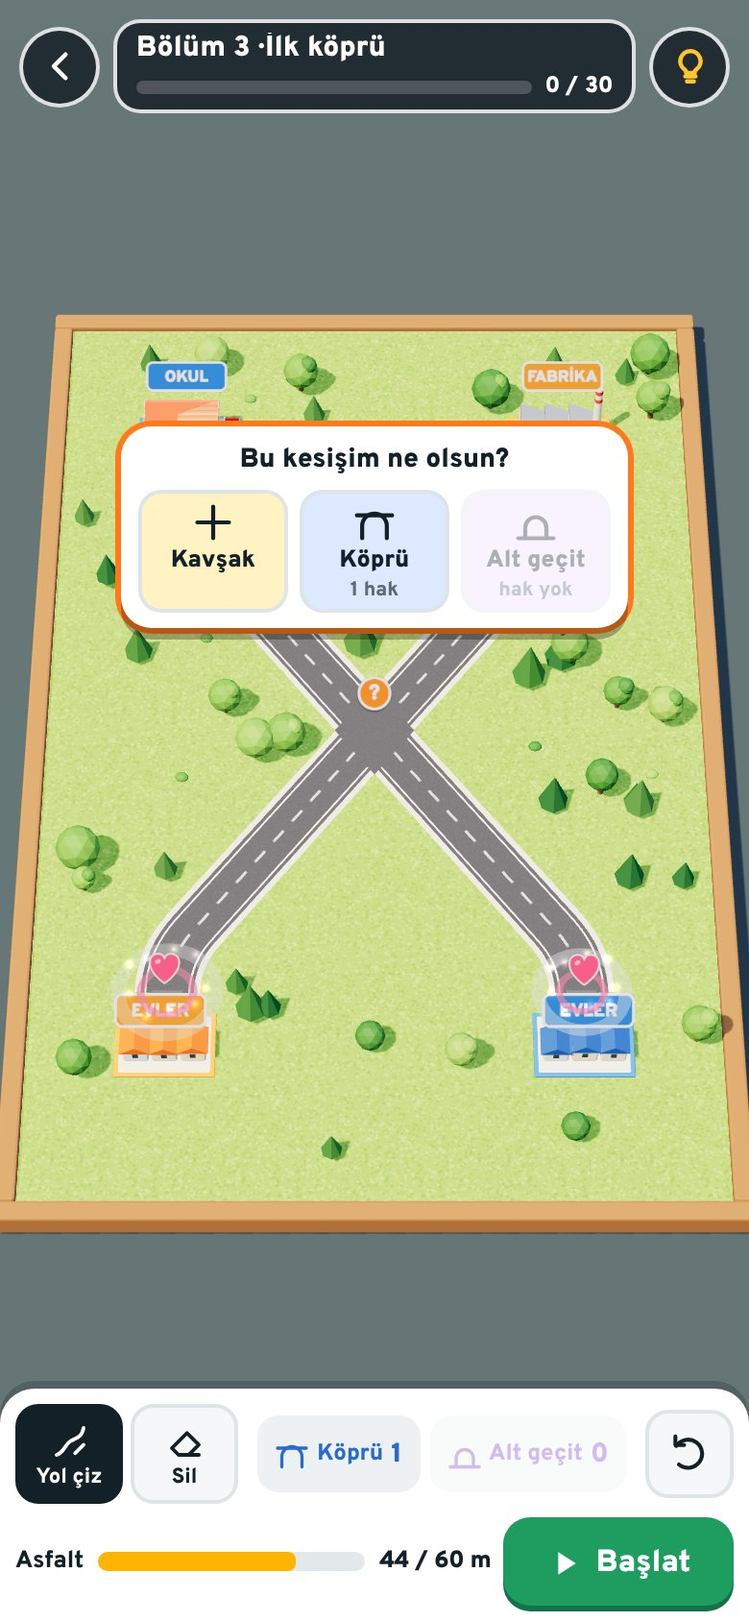
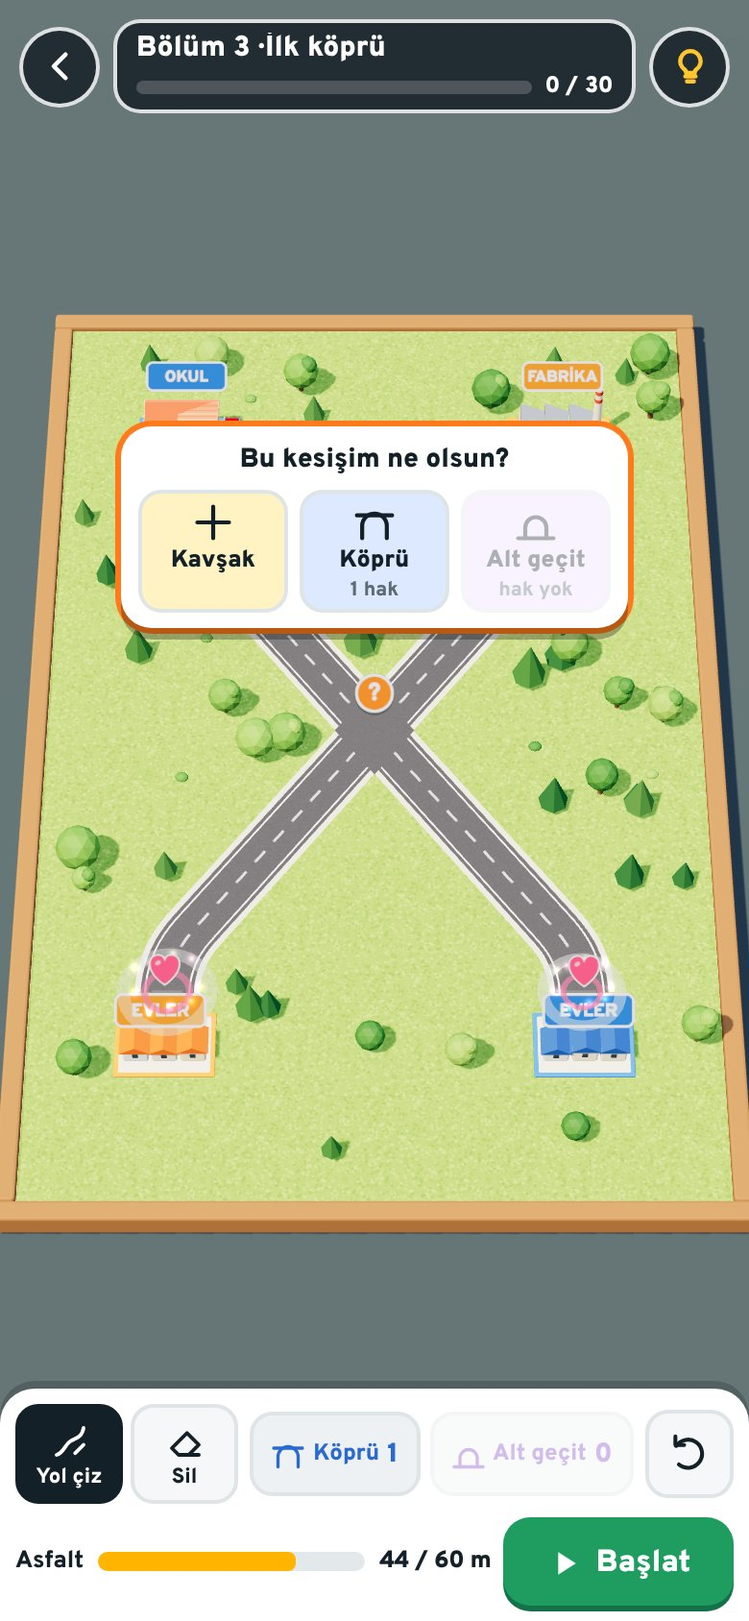
Bölümler: Köprü / Alt geçit düğmesi yapılabilecek yerleri gösterir, oyuncu elle koyar
- Alttaki Köprü ve Alt geçit artık düğme: basınca köprü (alt geçit) yapılabilecek
  bütün yerler ışıkla parlar; oyuncu istediğine dokunur. Kavşak yapılmış
  kesişimler, belirsiz (?) kesişimler ve rayla kesişimler de aday olur.
- İki yolun ana yola karşılıklı bağlandığı dört kollu kavşak da köprü yeri olur:
  o iki yol tek yol olup ana yolun üstünden (alt geçitte altından) geçer.
- Hangi yolun üstten geçeceği sığana göre seçilir (yeni yolun rampasına yer
  yoksa öbür yol üstten geçer); ? kutusundaki Köprü seçeneği de bundan yararlanır.
- Modda var olan köprünün işaretinde × rozeti: dokununca köprü kaldırılır.
  Hak bitince ya da düğmeye yeniden basınca Yol çiz'e dönülür; uzun sürükleme
  yol çizmeye geçer. Yer yoksa nedeni yazar.
- Eski akışı anlatan ipuçları ve bölüm 2 tanıtımı yeni akışa göre yazıldı.
- Testler: köprü yerlerinin parlaması, dokununca köprü, hak bitince uyarı,
  karşılıklı yolların birleşip köprü olması; kaybetme kartı kontrolü kartın
  açılmasını bekliyor. 111 kontrolün hepsi geçti.

Claude-Session: https://claude.ai/code/session_0156CvAogtVYziKRmLM3uGcM

diff --git a/ray-arasi/js/lv-game.js b/ray-arasi/js/lv-game.js
@@ -81,6 +81,7 @@
       this.sim.setNet(res);
       this.hud(true);
       if (okMsg) this.toast(okMsg);
+      if (this.spotKind) this.refreshSpots();
       RA.audio.play('switch');
       return true;
     }
@@ -91,6 +92,7 @@
       this.strokes = s.strokes; this.choices = s.choices; this.nextId = Math.max(this.nextId, s.nextId); this.net = res;
       this.view.buildRoads(this.level, res); this.sim.setNet(res); this.hud(true);
       this.toast('Geri alındı.');
+      if (this.spotKind) this.refreshSpots(true);
     }
 
     /* ---------- çizim ---------- */
@@ -482,6 +484,14 @@
       return true;
     }
     // kesişim seçim kutusu
+    // kesişime tür ver: köprü / alt geçitte önce olağan yön denenir, sığmazsa öbür yol üstten geçer
+    fitChoice(c, t, strokes) {
+      strokes = strokes || this.strokes;
+      const base = Object.assign({}, this.choices, { [c.key]: t }); delete base[c.key + '^'];
+      if (LV.buildNet(this.level, strokes, base, {}).ok) return base;
+      if (c.kind === 'road' && (t === 'bridge' || t === 'tunnel')) { const f = Object.assign({}, base, { [c.key + '^']: true }); if (LV.buildNet(this.level, strokes, f, {}).ok) return f; }
+      return null;
+    }
     openPick(c) {
       if (!c) return;
       this.pickC = c;
@@ -493,7 +503,7 @@
         b.querySelector('span').textContent = t === 'level' ? 'Hemzemin' : t === 'junction' ? 'Kavşak' : t === 'bridge' ? 'Köprü' : 'Alt geçit';
         const n = t === 'bridge' || t === 'tunnel' ? left[t] : null;
         // bu seçenek burada olur mu? (rampa yeri, yakın kavşak…) olmayan seçenek baştan kapalı
-        const fits = t === c.type || LV.buildNet(this.level, this.strokes, Object.assign({}, this.choices, { [c.key]: t }), {}).ok;
+        const fits = t === c.type || !!this.fitChoice(c, t);
         b.querySelector('b').textContent = n != null && n <= 0 ? 'hak yok' : !fits ? 'yer yok' : n == null ? '' : n + ' hak';
         b.disabled = (n != null && n <= 0) || !fits;
         b.classList.toggle('on', c.type === t);
@@ -511,7 +521,7 @@
     closePick() { const el = $('lv-pick'); if (el) el.hidden = true; this.pickC = null; }
     choose(t) {
       const c = this.pickC; if (!c) return;
-      const choices = Object.assign({}, this.choices, { [c.key]: t });
+      const choices = this.fitChoice(c, t) || Object.assign({}, this.choices, { [c.key]: t });
       if (this.tryCommit(this.strokes, choices, 'Kesişim: ' + TNAME[t] + '.')) { this.closePick(); if (t !== 'junction' && t !== 'level') this.view.kiss(c.x, c.z, 1.4); }
     }
     eraseAt(p) {
@@ -557,9 +567,113 @@
       const b = $('lv-speed'); b.textContent = v + '×'; b.dataset.v = v; b.setAttribute('aria-label', 'Hız: ' + v + ' kat (değiştirmek için dokun)');
     }
     setTool(t) {
+      if (t === 'bridge' || t === 'tunnel') { if (this.tool === t || !this.enterSpots(t)) t = 'road'; else this.closePick(); }
+      if (t !== 'bridge' && t !== 'tunnel' && this.spotKind) { this.spotKind = null; this.spotList = null; this.view.spots(null); }
       this.tool = t;
       document.querySelectorAll('#lv [data-lvtool]').forEach((b) => { const on = b.dataset.lvtool === t; b.classList.toggle('on', on); b.setAttribute('aria-pressed', on); });
+    }
 
+    /* ---------- köprü / alt geçit modu: yapılabilecek yerler parlar, oyuncu istediğine dokunur ---------- */
+    // Aday yerler: var olan kesişimler (?, kavşak, hemzemin geçit) ve iki yolun karşılıklı bağlandığı
+    // dört kollu kavşaklar (o iki yol tek yol olur, öbürünün üstünden / altından geçer).
+    spotsFor(kind) {
+      const L = this.level, u = this.net.usage;
+      const left = ((kind === 'bridge' ? L.bridges : L.tunnels) || 0) - (kind === 'bridge' ? u.bridges : u.tunnels);
+      const out = [];
+      for (const c of this.net.crossings) if (c.type === kind) out.push({ x: c.x, z: c.z, c, act: 'unset' });
+      if (left > 0) {
+        for (const c of this.net.crossings) {
+          if (c.type === kind) continue;
+          const ch = this.fitChoice(c, kind);
+          if (ch) out.push({ x: c.x, z: c.z, c, act: 'set', choices: ch });
+        }
+        for (const m of this.mergeSpots(kind)) out.push(m);
+      }
+      return { out, left };
+    }
+    mergeSpots(kind) {
+      const out = [], net = this.net;
+      for (const n of net.nodes) {
+        if (n.kind !== 'j' || n.deg !== 4) continue;
+        if (net.crossings.some((c) => Math.hypot(c.x - n.x, c.z - n.z) < 0.6)) continue;
+        const arms = n.arms.map((r) => { const st = r.e.st, s = r.end === 'a' ? r.e.s0 : r.e.s1; return { ang: r.ang, id: st.id, endHere: s < 0.05 || s > st.len - 0.05, atStart: s < 0.05 }; });
+        // karşılıklı iki çift kol
+        const pairs = [], used = new Set();
+        for (let i = 0; i < 4; i++) {
+          if (used.has(i)) continue;
+          let bj = -1, bd = 1e9;
+          for (let j = 0; j < 4; j++) { if (j === i || used.has(j)) continue; const d = Math.abs(RA.wrapAngle(arms[i].ang - arms[j].ang - Math.PI)); if (d < bd) { bd = d; bj = j; } }
+          if (bj < 0 || bd > 0.7) break;
+          used.add(i); used.add(bj); pairs.push([arms[i], arms[bj]]);
+        }
+        if (pairs.length !== 2) continue;
+        let strokes = this.strokes.slice(), nid = this.nextId, ok = true, merged = 0;
+        const N = { x: n.x, z: n.z }, far = (v) => Math.hypot(v.x - N.x, v.z - N.z) > 0.9;
+        for (const [p, q] of pairs) {
+          if (p.id === q.id && !p.endHere && !q.endHere) continue; // yol kavşağın içinden geçiyor
+          if (!p.endHere || !q.endHere || p.id === q.id) { ok = false; break; }
+          const A = strokes.find((s) => s.id === p.id), B = strokes.find((s) => s.id === q.id);
+          if (!A || !B) { ok = false; break; }
+          const pa = (p.atStart ? A.pts.slice().reverse() : A.pts.slice()).filter(far), pb = (q.atStart ? B.pts.slice() : B.pts.slice().reverse()).filter(far);
+          strokes = strokes.filter((s) => s !== A && s !== B).concat([{ id: nid++, pts: pa.concat([N], pb) }]);
+          merged++;
+        }
+        if (!ok || !merged) continue;
+        const probe = LV.buildNet(this.level, strokes, this.choices, {});
+        if (!probe.ok) continue;
+        const c = probe.crossings.find((q) => Math.hypot(q.x - n.x, q.z - n.z) < 0.6);
+        if (!c) continue;
+        const ch = this.fitChoice(c, kind, strokes);
+        if (!ch) continue;
+        out.push({ x: n.x, z: n.z, act: 'merge', strokes, choices: ch, nextId: nid });
+      }
+      return out;
+    }
+    enterSpots(kind) {
+      const L = this.level, name = kind === 'bridge' ? 'köprü' : 'alt geçit', Name = kind === 'bridge' ? 'Köprü' : 'Alt geçit';
+      if (!((kind === 'bridge' ? L.bridges : L.tunnels) || 0)) { this.toast('Bu bölümde ' + name + ' hakkın yok.'); return false; }
+      const { out, left } = this.spotsFor(kind);
+      const add = out.filter((s) => s.act !== 'unset');
+      if (left <= 0) { this.toast(Name + ' hakkın bitti. Birini kaldırmak için ' + name + ' işaretine dokunup Kavşak seç.'); return false; }
+      if (!add.length) {
+        const others = this.net.crossings.filter((c) => c.type !== kind).length;
+        this.toast(others || this.net.nodes.some((n) => n.kind === 'j' && n.deg === 4) ? 'Şu an hiçbir kesişimde ' + name + ' için yer yok: rampalar için kesişimin iki yanında biraz düz yol gerekir.' : this.net.crossings.length ? 'Bütün kesişimler zaten ' + name + '. Yeni bir yer için başka bir yolu kesen bir yol çiz.' : Name + ' yapılabilecek yer yok: önce bir yolu kesen başka bir yol çiz.');
+        return false;
+      }
+      this.spotKind = kind; this.spotList = out; this.view.spots(out, kind);
+      this.toast(Name + ' yapabileceğin ' + add.length + ' yer parlıyor: istediğine dokun. (' + left + ' hakkın var)');
+      RA.audio.play('tap');
+      return true;
+    }
+    // işlemden sonra yerleri yenile; eklenecek yer ya da hak kalmadıysa moddan çık
+    refreshSpots(quiet) {
+      const kind = this.spotKind; if (!kind) return;
+      const { out, left } = this.spotsFor(kind);
+      if (left <= 0 || !out.some((s) => s.act !== 'unset')) { this.spotKind = null; this.spotList = null; this.setTool('road'); return; }
+      this.spotList = out; this.view.spots(out, kind);
+    }
+    spotAt(x, y) {
+      let best = null, bd = 34;
+      for (const s of this.spotList || []) {
+        const q = RA.project(new T.Vector3(s.x, 2.0, s.z), this.camera, this.app.w, this.app.h);
+        const d = Math.hypot(q.x - x, q.y - y); if (d < bd) { bd = d; best = s; }
+      }
+      return best;
+    }
+    useSpot(sp) {
+      const kind = this.spotKind, Name = kind === 'bridge' ? 'Köprü' : 'Alt geçit';
+      if (sp.act === 'set' || sp.act === 'merge') {
+        const strokes = sp.act === 'merge' ? sp.strokes : this.strokes;
+        if (sp.act === 'merge') this.nextId = Math.max(this.nextId, sp.nextId);
+        const left = ((kind === 'bridge' ? this.level.bridges : this.level.tunnels) || 0) - (kind === 'bridge' ? this.net.usage.bridges : this.net.usage.tunnels) - 1;
+        if (this.tryCommit(strokes, sp.choices, Name + ' yapıldı' + (sp.act === 'merge' ? ': iki yol birleşip ' + (kind === 'bridge' ? 'üstten' : 'alttan') + ' geçiyor' : '') + '. ' + (left > 0 ? 'Kalan hak: ' + left + '.' : 'Hakkın bitti.'))) {
+          this.view.kiss(sp.x, sp.z, 1.4); RA.vibrate(15);
+        }
+        return;
+      }
+      // var olanı kaldır: kavşak (rayda hemzemin) olur; sığmazsa türü sorulur (?)
+      const back = sp.c.kind === 'rail' ? 'level' : 'junction';
+      for (const t of [back, 'pending']) if (this.tryCommit(this.strokes, ((ch) => { delete ch[sp.c.key + '^']; return ch; })(Object.assign({}, this.choices, { [sp.c.key]: t })), Name + ' kaldırıldı: ' + (t === 'pending' ? 'kesişimin türünü seç (?).' : TNAME[t] + ' oldu.'), null, true)) return;
     }
     togglePlay() {
       if (this.ended) return;
@@ -686,6 +800,8 @@
         const d = this.drag; if (!d || e.pointerId !== d.id) return;
         const p = local(e);
         if (Math.hypot(p.x - d.x0, p.y - d.y0) > 9) d.moved = true;
+        // köprü / alt geçit modunda uzun sürükleme: yol çizmeye geç
+        if (this.spotKind && Math.hypot(p.x - d.x0, p.y - d.y0) > 40) { this.setTool('road'); this.toast('Yol çizmeye geçildi.'); }
         if (!d.moved || this.tool !== 'road') return;
         const g = this.ground(p.x, p.y); if (!g) return;
         const last = d.raw[d.raw.length - 1];
@@ -698,6 +814,12 @@
         this.drag = null; this.view.preview(null);
         if (e.type === 'pointercancel') return;
         const p = local(e);
+        if (this.spotKind) {
+          const sp = this.spotAt(p.x, p.y) || this.spotAt(d.x0, d.y0);
+          if (sp) this.useSpot(sp);
+          else this.toast('Parlayan yerlerden birine dokun. Çıkmak için "' + (this.spotKind === 'bridge' ? 'Köprü' : 'Alt geçit') + '" düğmesine yeniden bas.');
+          return;
+        }
         if (!d.moved) {
           const mk = this.markAt(p.x, p.y);
           if (mk) { this.openPick(mk); return; }

diff --git a/ray-arasi/js/lv-view.js b/ray-arasi/js/lv-view.js
@@ -82,6 +82,15 @@
   }
   function rr(g, x, y, w, h, r) { g.beginPath(); g.moveTo(x + r, y); g.arcTo(x + w, y, x + w, y + h, r); g.arcTo(x + w, y + h, x, y + h, r); g.arcTo(x, y + h, x, y, r); g.arcTo(x, y, x + w, y, r); g.closePath(); }
   // kesişim işareti: kavşak (artı), köprü (kemer), alt geçit (tünel), hemzemin (bariyer)
+  // köprü / alt geçit modunda var olanın işaretinde kaldırma rozeti (×) olur
+  function removeTex(type) {
+    return canvasTex('mkx' + type, 128, 128, (g) => {
+      g.drawImage(markTex(type).image, 0, 0);
+      g.fillStyle = '#ffffff'; g.beginPath(); g.arc(100, 26, 22, 0, Math.PI * 2); g.fill();
+      g.fillStyle = '#e8453c'; g.beginPath(); g.arc(100, 26, 17, 0, Math.PI * 2); g.fill();
+      g.strokeStyle = '#ffffff'; g.lineWidth = 6; g.lineCap = 'round'; g.beginPath(); g.moveTo(92, 18); g.lineTo(108, 34); g.moveTo(108, 18); g.lineTo(92, 34); g.stroke();
+    });
+  }
   function markTex(type) {
     return canvasTex('mk' + type, 128, 128, (g) => {
       const col = { junction: '#ffc531', level: '#ffc531', bridge: '#3d8bff', tunnel: '#a061f0', pending: '#ff7a1a' }[type];
@@ -285,6 +294,7 @@
 
     /* ---------- yollar (her çizimde yeniden kurulur) ---------- */
     buildRoads(level, net) {
+      this.spots(null);
       this.dispose(this.roads);
       const m = mats();
       const root = new T.Group(), stat = new T.Group();
@@ -399,6 +409,27 @@
       this.roads = root;
     }
 
+    /* ---------- köprü / alt geçit yapılabilecek yerler (parlayan işaretler) ---------- */
+    spots(list, kind) {
+      if (this.spotG) { this.scene.remove(this.spotG); this.spotG.traverse((o) => { if (o.isMesh) { o.geometry.dispose(); o.material.dispose(); } else if (o.isSprite) o.material.dispose(); }); this.spotG = null; }
+      this.spotL = list || null;
+      if (this.marks) for (const mk of this.marks) mk.sp.visible = !list;
+      if (!list) return;
+      const g = new T.Group(), col = kind === 'bridge' ? 0x3d8bff : 0xa061f0;
+      for (const s of list) {
+        const add = s.act !== 'unset';
+        const sp = new T.Sprite(new T.SpriteMaterial({ map: add ? markTex(kind) : removeTex(kind), depthTest: false, transparent: true }));
+        sp.position.set(s.x, 2.0, s.z); sp.renderOrder = 19; sp.scale.set(1.25, 1.25, 1); g.add(sp); s.sp = sp;
+        if (add) {
+          const ring = new T.Mesh(new T.RingGeometry(0.95, 1.35, 40), new T.MeshBasicMaterial({ color: col, transparent: true, opacity: 0.6, depthWrite: false, blending: T.AdditiveBlending }));
+          ring.rotation.x = -Math.PI / 2; ring.position.set(s.x, 0.14, s.z); ring.renderOrder = 6; g.add(ring); s.ring = ring;
+          const beam = new T.Mesh(new T.CylinderGeometry(0.08, 0.3, 1.7, 12, 1, true), new T.MeshBasicMaterial({ color: col, transparent: true, opacity: 0.35, depthWrite: false, blending: T.AdditiveBlending }));
+          beam.position.set(s.x, 1.0, s.z); g.add(beam);
+        }
+      }
+      this.scene.add(g); this.spotG = g;
+    }
+
     /* ---------- çizim önizlemesi ---------- */
     preview(pts, ok) {
       if (this.prev) { this.scene.remove(this.prev); this.prev.geometry.dispose(); this.prev = null; }
@@ -441,7 +472,12 @@
         if (n !== b.pendN) { b.pendN = n; b.pend.material.map = pendTex(n, LV.Sim.PENDING_CAP); b.pend.material.needsUpdate = true; }
         b.pend.visible = running || n > 0;
       }
-      if (this.marks) for (const mk of this.marks) {
+      if (this.spotL) for (const s of this.spotL) {
+        if (s.act === 'unset') continue;
+        const k = 0.5 + 0.5 * Math.sin(now * 6), sc = 1.3 + k * 0.3;
+        s.sp.scale.set(sc, sc, 1); s.ring.scale.setScalar(1 + k * 0.35); s.ring.material.opacity = 0.35 + 0.4 * k;
+      }
+      if (this.marks && !this.spotL) for (const mk of this.marks) {
         if (mk.c.type === 'pending') { const sc = 1.35 + Math.sin(now * 5) * 0.15; mk.sp.scale.set(sc, sc, 1); mk.sp.material.opacity = 1; continue; } // seçilmeyi bekliyor
         mk.sp.material.opacity = running ? 0.6 : 1; const sc = running ? 0.9 : 1.25; mk.sp.scale.set(sc, sc, 1);
       }

diff --git a/ray-arasi/js/lv-data.js b/ray-arasi/js/lv-data.js
@@ -27,7 +27,7 @@
     },
     {
       id: 2, name: 'Kavşak', goal: 16, spawn: 2.8, budget: 60, star2: 48, bridges: 0, tunnels: 0,
-      intro: 'İki renk, iki yol. Yollar kesişince ışıklı kavşak olur; ışıkları yapay zekâ yönetir.',
+      intro: 'İki renk, iki yol. Yollar kesişince turuncu ? çıkar: dokunup Kavşak seç. Işıklı kavşağı yapay zekâ yönetir.',
       tip: 'Her evi kendi rengindeki binaya bağla. Yollar ortada kesişebilir.',
       houses: [{ x: -6, z: 11, dir: 'N', color: 'or' }, { x: 6, z: 11, dir: 'N', color: 'bl' }],
       dests: [{ x: 6, z: -11, dir: 'S', color: 'or', type: 'fabrika' }, { x: -6, z: -11, dir: 'S', color: 'bl', type: 'okul' }],
@@ -36,7 +36,7 @@
     {
       id: 3, name: 'İlk köprü', goal: 30, spawn: 1.6, budget: 60, star2: 48, bridges: 1, tunnels: 0,
       intro: 'Trafik arttı. Kavşakta ışık beklemek yerine yollardan birini köprüyle öbürünün üstünden geçir.',
-      tip: 'Alttan "Köprü"yü seçip ikinci yolu çiz ya da çizdikten sonra kesişme işaretine dokun: kavşak → köprü → alt geçit.',
+      tip: 'İki yolu çiz. Sonra alttaki "Köprü" düğmesine bas: köprü yapabileceğin yerler parlar, kesişime dokun. (Turuncu ? işaretine dokunup Köprü de seçebilirsin.)',
       houses: [{ x: -6, z: 11, dir: 'N', color: 'or' }, { x: 6, z: 11, dir: 'N', color: 'bl' }],
       dests: [{ x: 6, z: -11, dir: 'S', color: 'or', type: 'fabrika' }, { x: -6, z: -11, dir: 'S', color: 'bl', type: 'okul' }],
       solution: [['road', [[-6, 9.3], [6, -9.1]]], ['bridge', [[6, 9.3], [-6, -9.1]]]],
@@ -61,7 +61,7 @@
     {
       id: 6, name: 'Hemzemin geçit', goal: 30, spawn: 2.0, budget: 52, star2: 44, bridges: 0, tunnels: 1,
       intro: 'Demiryolundan sık sık tren geçiyor. Hemzemin geçitte bariyer inince araçlar bekler.',
-      tip: 'Bir yolu "Alt geçit"le çiz: tren rayı yükselir, araçlar altından durmadan geçer.',
+      tip: 'Rayı kesen yolu çiz, sonra alttaki "Alt geçit"e basıp parlayan yere dokun: tren rayı yükselir, araçlar altından durmadan geçer.',
       rails: [{ pts: [[-10.8, -1], [10.8, -1]], every: 11, cars: 3, first: 2 }],
       houses: [{ x: -5, z: 12, dir: 'N', color: 'or' }, { x: 5, z: 12, dir: 'N', color: 'gr' }],
       dests: [{ x: -5, z: -11, dir: 'S', color: 'or', type: 'fabrika' }, { x: 5, z: -11, dir: 'S', color: 'gr', type: 'avm' }],
@@ -97,7 +97,7 @@
     {
       id: 10, name: 'Büyük kavşak', goal: 48, spawn: 2.3, budget: 84, star2: 76, bridges: 2, tunnels: 2,
       intro: 'Dört renk, dört kesişim ve yoğun trafik. Şimdiye kadar öğrendiğin her şeyi kullan.',
-      tip: 'Yatay yollardan birini köprüyle, öbürünü alt geçitle çiz: dikey yolların üstünden ve altından geçsinler.',
+      tip: 'Bütün yolları çiz. Sonra "Köprü"ye basıp bir yatay yolun kesişimlerine, "Alt geçit"e basıp öbürününkilere dokun: dikey yolların üstünden ve altından geçsinler.',
       houses: [{ x: -2.6, z: 13, dir: 'N', color: 'or' }, { x: 2.6, z: 13, dir: 'N', color: 'bl' }, { x: -8.6, z: -5, dir: 'E', color: 'gr' }, { x: 8.6, z: 5, dir: 'W', color: 'pu' }],
       dests: [{ x: -2.6, z: -12.5, dir: 'S', color: 'or', type: 'fabrika' }, { x: 2.6, z: -12.5, dir: 'S', color: 'bl', type: 'ofis' }, { x: 8.6, z: -5, dir: 'W', color: 'gr', type: 'okul' }, { x: -8.6, z: 5, dir: 'E', color: 'pu', type: 'avm' }],
       solution: [['road', [[-2.6, 11.3], [-2.6, -10.6]]], ['road', [[2.6, 11.3], [2.6, -10.6]]], ['bridge', [[-6.9, -5], [6.7, -5]]], ['tunnel', [[6.9, 5], [-6.7, 5]]]],

diff --git a/ray-arasi/index.html b/ray-arasi/index.html
@@ -112,9 +112,9 @@
             <button type="button" data-lvtool="road" aria-pressed="true"><svg viewBox="0 0 24 24"><path d="M4 20c4-1 5-6 8-8s7-2 8-8"/><path d="M15 19l5-5" /></svg>Yol çiz</button>
             <button type="button" data-lvtool="erase" aria-pressed="false"><svg viewBox="0 0 24 24"><path d="M4 16l9-9 7 7-6 6H8z"/><path d="M9 20h11"/></svg>Sil</button>
           </div>
-          <div class="lv-toks" aria-label="Kalan haklar">
-            <span id="lv-tok-b" class="lv-tok"><svg viewBox="0 0 24 24" aria-hidden="true"><path d="M2 8h20"/><path d="M5 21v-7a7 7 0 0 1 14 0v7"/></svg>Köprü <b id="lv-nb">0</b></span>
-            <span id="lv-tok-t" class="lv-tok"><svg viewBox="0 0 24 24" aria-hidden="true"><path d="M2 21h20"/><path d="M6 21v-6a6 6 0 0 1 12 0v6"/></svg>Alt geçit <b id="lv-nt">0</b></span>
+          <div class="lv-toks" role="toolbar" aria-label="Köprü ve alt geçit">
+            <button type="button" id="lv-tok-b" class="lv-tok" data-lvtool="bridge" aria-pressed="false" aria-label="Köprü: yapılabilecek yerleri göster"><svg viewBox="0 0 24 24" aria-hidden="true"><path d="M2 8h20"/><path d="M5 21v-7a7 7 0 0 1 14 0v7"/></svg>Köprü <b id="lv-nb">0</b></button>
+            <button type="button" id="lv-tok-t" class="lv-tok" data-lvtool="tunnel" aria-pressed="false" aria-label="Alt geçit: yapılabilecek yerleri göster"><svg viewBox="0 0 24 24" aria-hidden="true"><path d="M2 21h20"/><path d="M6 21v-6a6 6 0 0 1 12 0v6"/></svg>Alt geçit <b id="lv-nt">0</b></button>
           </div>
           <button id="lv-undo" class="ws-icon" type="button" aria-label="Geri al" disabled><svg viewBox="0 0 24 24"><path d="M9 7H4V2"/><path d="M4.5 7.5A8 8 0 1 1 6 18"/></svg></button>
         </div>

diff --git a/ray-arasi/css/style.css b/ray-arasi/css/style.css
@@ -271,10 +271,12 @@ button:focus-visible { outline: 3px solid var(--sign-yellow); outline-offset: 3p
 
 /* kalan köprü / alt geçit hakları */
 .lv-toks { flex: 1; min-width: 0; display: flex; gap: 5px; justify-content: center; }
-.lv-tok { display: flex; align-items: center; gap: 4px; height: 40px; padding: 0 9px; border-radius: 11px; background: #eef1f3; font-weight: 800; font-size: 12px; white-space: nowrap; }
+.lv-tok { display: flex; align-items: center; gap: 4px; height: 44px; padding: 0 9px; border-radius: 12px; background: #eef1f3; border: 2px solid #dfe4e7; font-weight: 800; font-size: 12px; white-space: nowrap; font-family: inherit; cursor: pointer; }
 .lv-tok svg { width: 18px; height: 18px; fill: none; stroke: currentColor; stroke-width: 2.2; stroke-linecap: round; stroke-linejoin: round; }
 .lv-tok b { font-size: 14px; }
 #lv-tok-b { color: #2a6ad0; } #lv-tok-t { color: #7d43c9; }
+#lv-tok-b.on { background: #2a6ad0; border-color: #2a6ad0; color: #fff; box-shadow: 0 0 0 3px rgba(42,106,208,0.25); }
+#lv-tok-t.on { background: #7d43c9; border-color: #7d43c9; color: #fff; box-shadow: 0 0 0 3px rgba(125,67,201,0.25); }
 .lv-tok.none { opacity: 0.35; }
 /* kesişim seçim kutusu */
 .lv-pick { position: absolute; z-index: 4; background: var(--paper); color: var(--ink); border-radius: 16px; padding: 9px 9px 8px; box-shadow: 0 6px 0 rgba(0,0,0,0.28), 0 0 0 3px #ff7a1a; animation: toastin 0.18s ease-out; }

diff --git a/ray-arasi/js/lv-net.js b/ray-arasi/js/lv-net.js
@@ -283,7 +283,9 @@
           const node = findNode(x.x, x.z, 0.35) || newNode(x.x, x.z, 'p');
           addSplit(A, sa, node, 'x'); addSplit(B, sb, node, 'x');
         } else {
-          const up = type === 'bridge' ? newer : older, dn = up === newer ? older : newer;
+          // köprüde yeni yol, alt geçitte eski yol üstten geçer; choices[key + '^'] bunu tersine çevirir (öbür yolun rampasına yer varsa)
+          const flip = !!choices[key + '^'];
+          const up = (type === 'bridge') !== flip ? newer : older, dn = up === newer ? older : newer;
           const sUp = up === A ? sa : sb, sDn = dn === A ? sa : sb;
           humps.get(up.id).push({ a: sUp - C.FLAT, b: sUp + C.FLAT, x: x.x, z: x.z, low: { st: dn, s: sDn } });
           if (type === 'bridge') bridges++; else tunnels++;

diff --git a/ray-arasi/BENIOKU.md b/ray-arasi/BENIOKU.md
@@ -3,7 +3,8 @@
 Masanın üzerindeki maket tahtasında oynanan, Türkçe, dikey ekranlı bir trafik bulmacası. Renkli evlerdeki insanları
 aynı renkteki iş yerlerine ulaştırmak için yolları **parmağınla serbestçe çizersin**. Ne kadar dağınık çizersen çiz
 oyun yolu kendisi toparlar; yollar birbirine kavuşurken küçük bir "öpüşme" animasyonu oynar. Yollar kesiştiği yerde
-kavşak, köprü ya da alt geçit olur; hangisi olacağına **sen dokunup karar verirsin**. Bölüm bölüm zorlaşır, yıldız toplarsın.
+kavşak, köprü ya da alt geçit olur; hangisi olacağına **sen dokunup karar verirsin**; **Köprü** düğmesine basınca
+köprü yapabileceğin yerler parlar, istediğine elle köprü koyarsın. Bölüm bölüm zorlaşır, yıldız toplarsın.
 
 ## Nasıl oynanır?
 
@@ -31,8 +32,15 @@ kavşak, köprü ya da alt geçit olur; hangisi olacağına **sen dokunup karar 
 - Kutuda o noktaya sığmayan seçenek (ör. rampa için yer yoksa köprü) ve hakkın bitmişse köprü / alt geçit baştan
   kapalı görünür, yanında nedeni yazar; böylece hata almazsın.
 - Belirlenmemiş **?** varken trafik başlamaz; trafik akarken yeni bir kesişim oluşursa oyun durur ve seçim kutusu açılır.
-- Köprü ve alt geçit hakların alttaki rozetlerde yazar. Nehri kesen yol kendiliğinden alçak bir köprü olur ve bir
-  köprü hakkı kullanır.
+- **Köprüyü elle istediğin yere koy:** alttaki **Köprü** düğmesine bas. Köprü yapılabilecek bütün yerler mavi
+  ışıkla parlar: belirsiz (?) kesişimler, kavşak yaptığın kesişimler, hatta iki yolun bir ana yola karşılıklı
+  bağlandığı dört kollu kavşaklar (bu iki yol tek yol olup ana yolun üstünden geçer). İstediğine dokun, köprü olur.
+  Hakkın kaldıkça parlayan yerler yenilenir; hak bitince ya da düğmeye yeniden basınca Yol çiz'e dönülür.
+  **Alt geçit** düğmesi aynısını alt geçit için (mor ışıkla) yapar. Bu modda var olan köprünün işaretinde × rozeti
+  olur; ona dokunursan köprü kaldırılır, orası kavşak olur. Modda uzun sürüklersen yol çizmeye geçilir.
+- Yer parlamıyorsa nedeni yazar (hak bitti, bu bölümde hak yok, rampalar için kesişimin iki yanında düz yol yok…).
+- Köprü ve alt geçit hakların bu düğmelerin üstünde yazar. Nehri kesen yol kendiliğinden alçak bir köprü olur ve
+  bir köprü hakkı kullanır.
 - Demiryolunu aynı seviyede kesen yol **bariyerli hemzemin geçit** olur: tren gelince bariyer iner, araçlar bekler.
 
 ### Trafik nasıl işler?
@@ -250,7 +258,7 @@ ray-arasi/
 ├── js/app.js               Oluşturucu, ekranlar ve döngü
 ├── js/vendor/three.min.js  three.js r149 (MIT lisansı: js/vendor/three.LICENSE)
 ├── assets/                 Uygulama ikonları
-├── ekran-goruntuleri/      Ana ekran, bölüm kartı, serbest çizim, kesişim seçimi, köprü, nehir, alt geçit, büyük kavşak, kazanma, masaüstü
+├── ekran-goruntuleri/      Ana ekran, bölüm kartı, serbest çizim, kesişim seçimi, köprü yerleri, köprü, nehir, alt geçit, büyük kavşak, kazanma, masaüstü
 ├── manifest.webmanifest    "Ana ekrana ekle" bilgileri
 └── test/kontrol.cjs        İsteğe bağlı uçtan uca kontrol betiği
 ```
